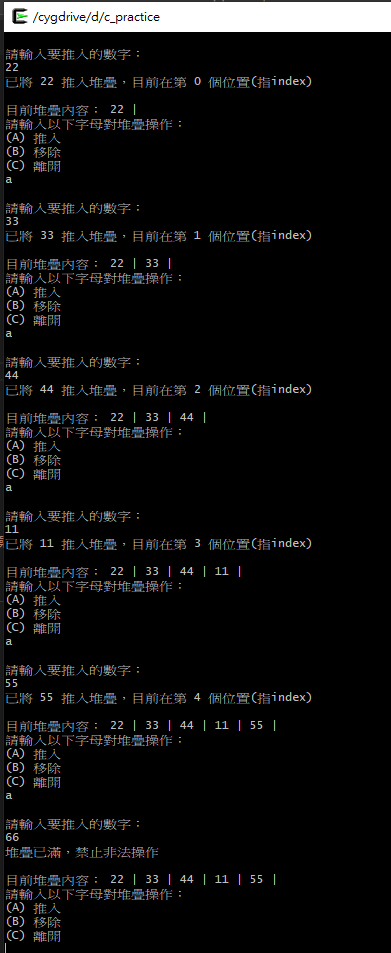
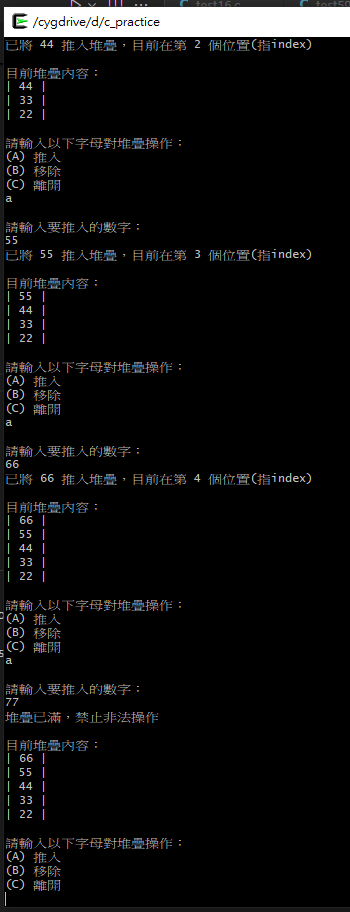
Update stack.c

Changed region(s): [[0.0, 0.0, 1.0, 1.0], [0.5143, 0.7061, 0.8, 0.7675]]

diff --git a/stack_array.c b/stack_array.c
@@ -19,7 +19,7 @@ int main(void) {
 
     while(1) {
         int i, num;
-        printf("\n目前堆疊內容： ");
+        printf("\n目前堆疊內容：\n");
         showStack(&s);
 
         printf("請輸入以下字母對堆疊操作：\n");
@@ -89,8 +89,8 @@ int pop(Stack *s, int *data) {
 
 void showStack(Stack *s) {
     int i;
-    for (i = 0; i <= s->top; i++) {
-        printf("%d | ", s->item[i]);
+    for (i = s->top; i >= 0; i--) {
+        printf("| %d |\n", s->item[i]);
     }
     printf("\n");
 }
